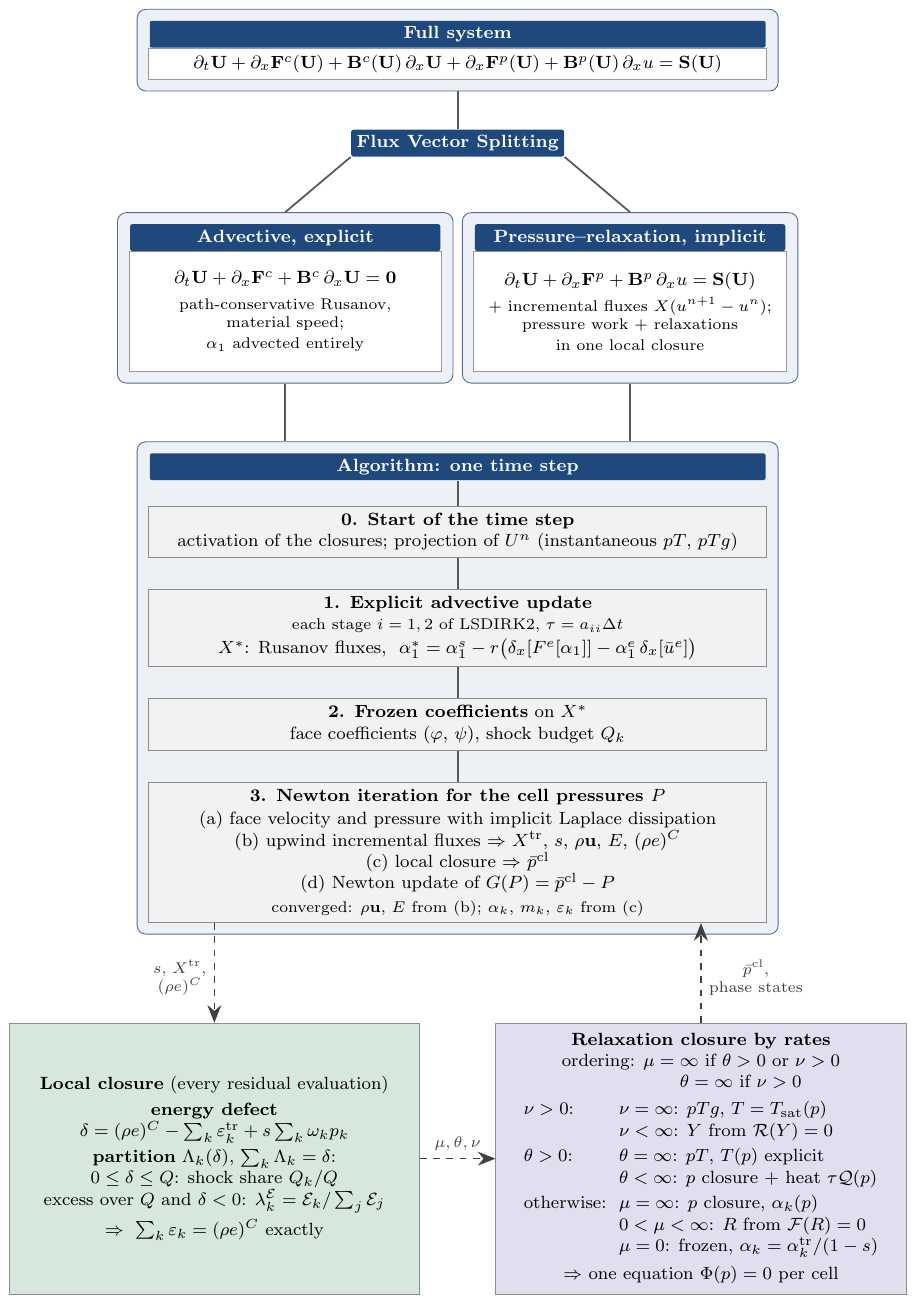
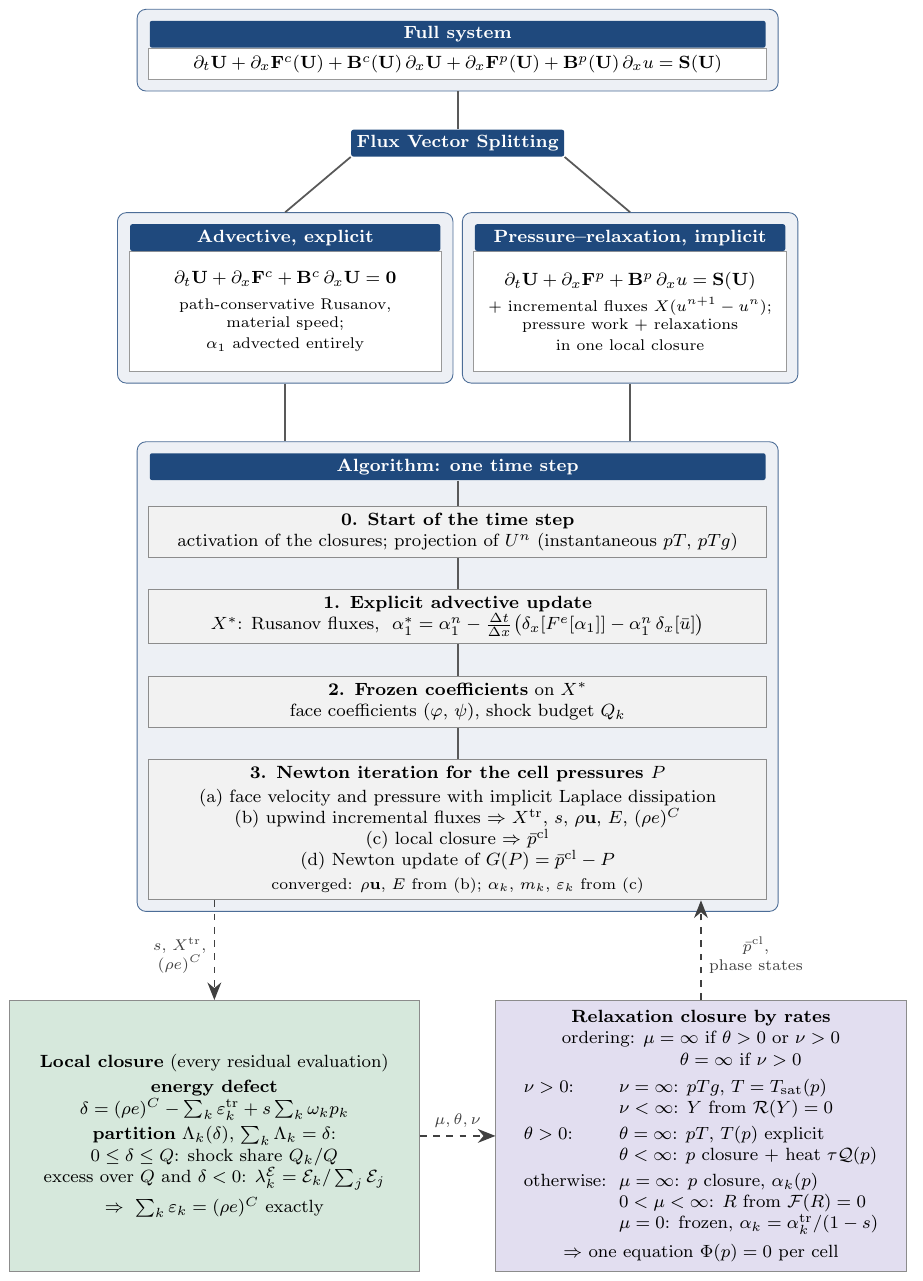
Flowchart: one first-order step, no Runge-Kutta stage notation; caption updated
Claude-Session: https://claude.ai/code/session_01S1n65tsz3avypBq5vvRFNT

diff --git a/paper/sections/03_method.tex b/paper/sections/03_method.tex
@@ -17,8 +17,7 @@ Fig.~\ref{fig:scheme} summarises the split and one time step of the scheme.
 \resizebox*{!}{0.84\textheight}{\input{figures/scheme}}
 \caption{Schematic of the semi-implicit scheme. The flux vector splitting of Zha and Bilgen separates the advective
 sub-system, advanced explicitly by the path-conservative Rusanov scheme with the material speed, from the
-pressure--relaxation sub-system, solved implicitly together with the incremental fluxes. Steps 1--3 are carried out in each
-stage of the LSDIRK2 scheme. Every residual evaluation of the pressure system calls the local closure of each cell, which
+pressure--relaxation sub-system, solved implicitly together with the incremental fluxes. Every residual evaluation of the pressure system calls the local closure of each cell, which
 distributes the energy defect $\delta$ between the phases, and the relaxation closure selected by the rates.}
 \label{fig:scheme}
 \end{figure}

diff --git a/paper/figures/scheme.tex b/paper/figures/scheme.tex
@@ -47,8 +47,7 @@
   {\textbf{0. Start of the time step}\\ activation of the closures; projection of $U^n$ (instantaneous $pT$, $pTg$)};
 \node[step, below=5mm of s0] (s1)
   {\textbf{1. Explicit advective update}\\
-   {\fontsize{7pt}{8.4pt}\selectfont each stage $i=1,2$ of LSDIRK2, $\tau=a_{ii}\Delta t$}\\[1pt]
-   $X^*$: Rusanov fluxes, \ $\alpha^*_1=\alpha^s_1-r\big(\delta_x[F^e[\alpha_1]]-\alpha^e_1\,\delta_x[\bar u^e]\big)$};
+   $X^*$: Rusanov fluxes, \ $\alpha^*_1=\alpha^n_1-\tfrac{\Delta t}{\Delta x}\big(\delta_x[F^e[\alpha_1]]-\alpha^n_1\,\delta_x[\bar u]\big)$};
 \node[step, below=5mm of s1] (s2)
   {\textbf{2. Frozen coefficients} on $X^*$\\ face coefficients ($\varphi$, $\psi$), shock budget $Q_k$};
 \node[step, below=5mm of s2] (s3)
